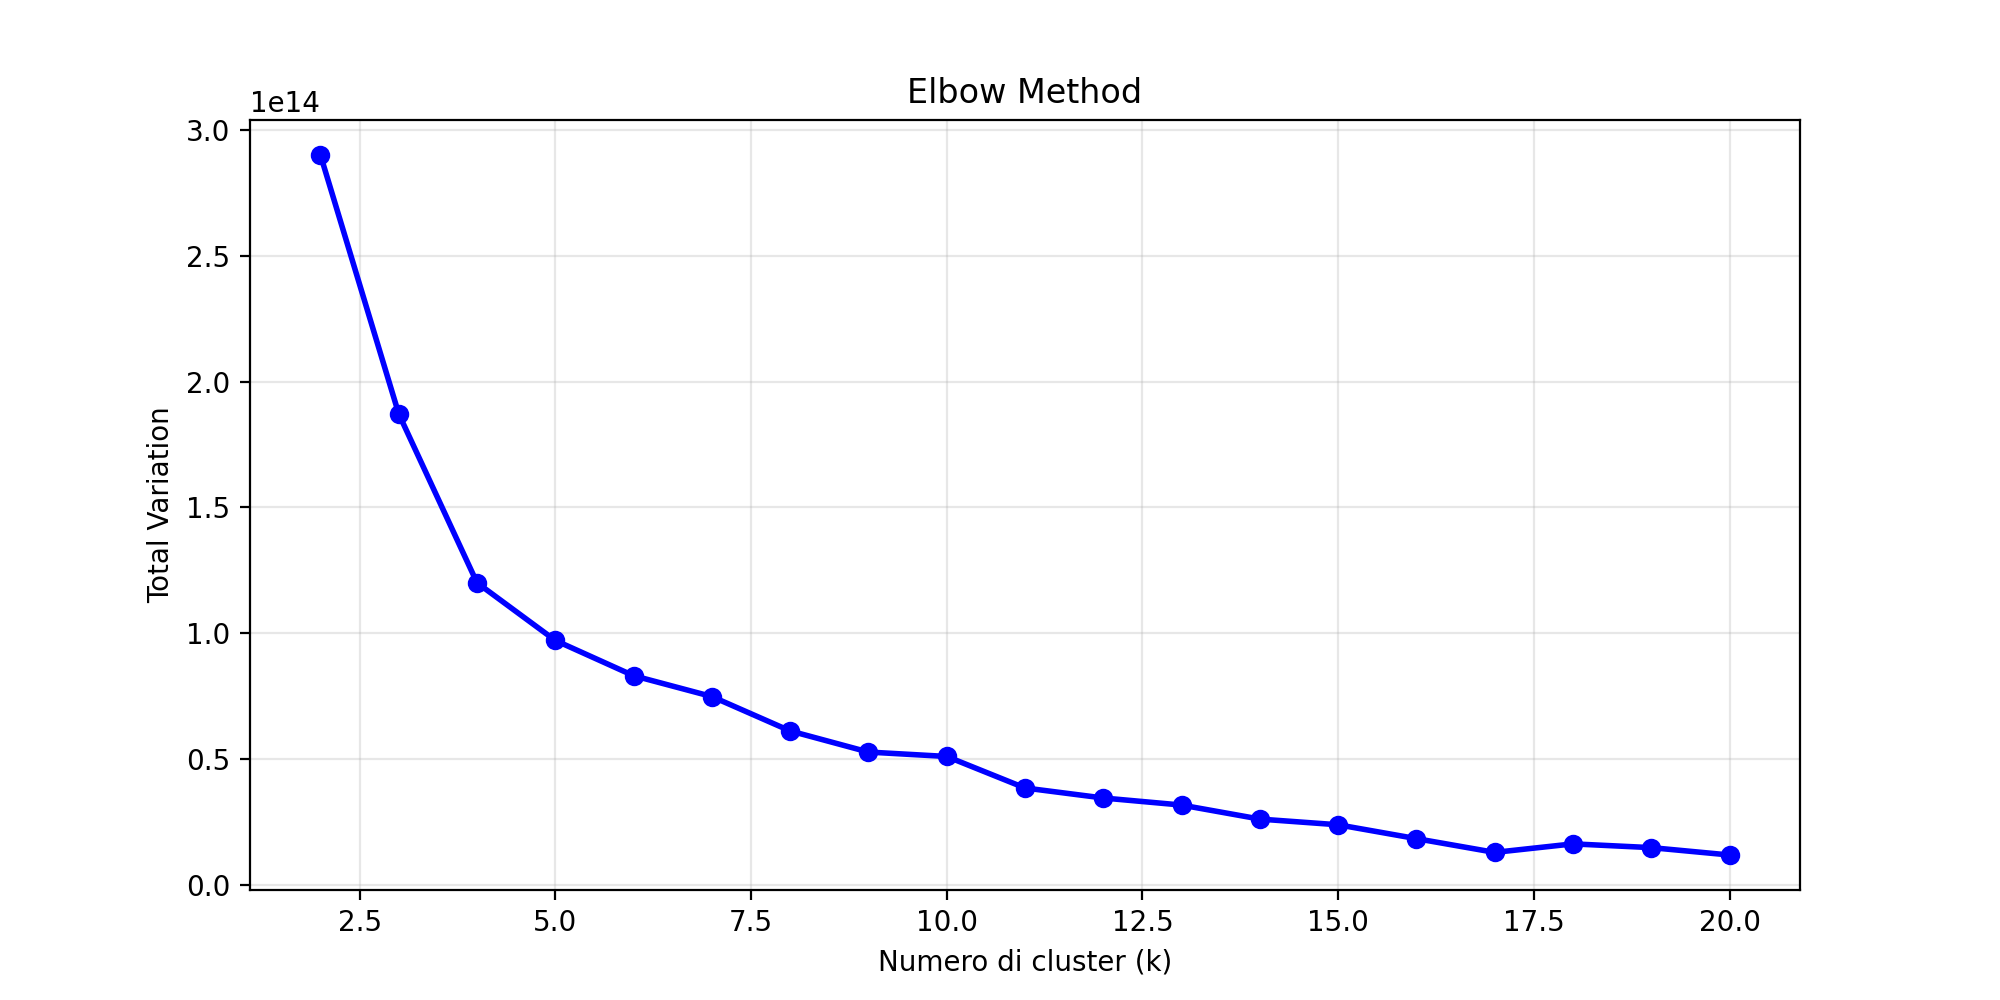
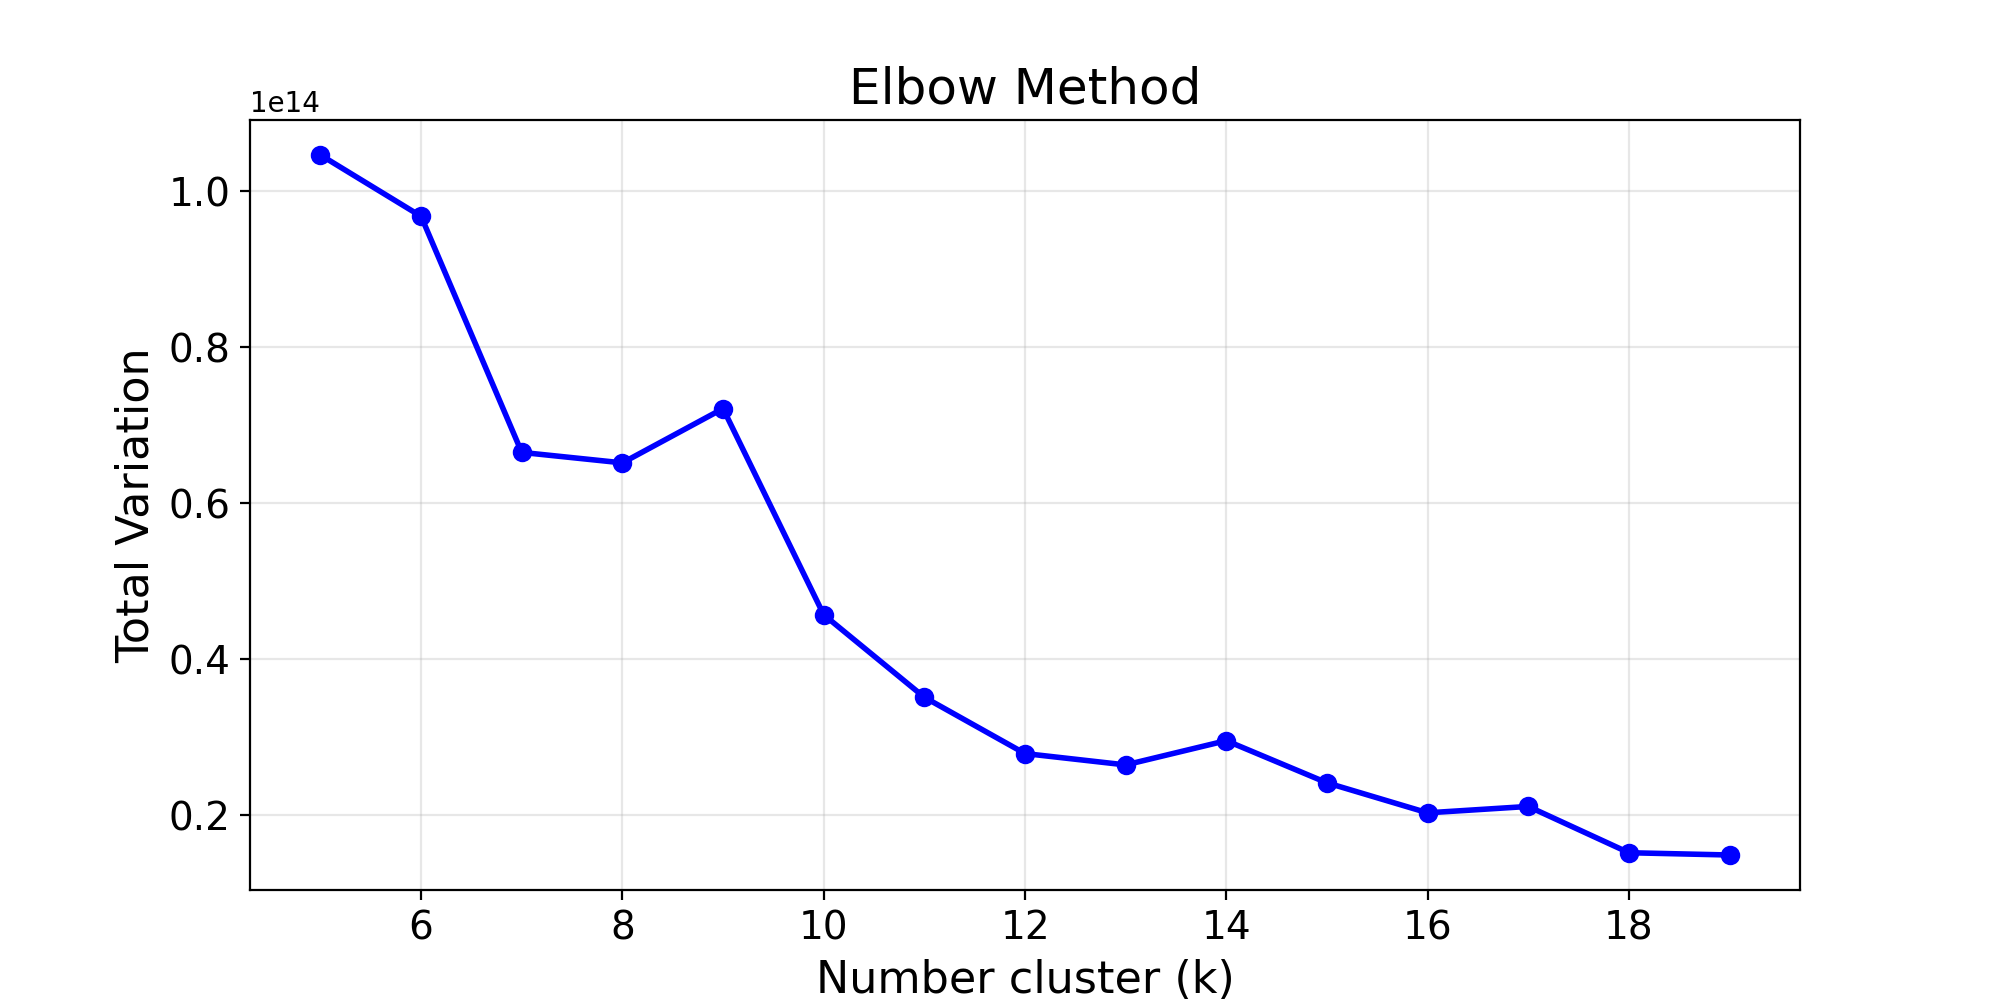
c

diff --git a/exercise4/ex4.py b/exercise4/ex4.py
@@ -1,20 +1,17 @@
 import numpy as np
 import matplotlib.pyplot as plt
 
-# ===================== FUNZIONI PRINCIPALI =====================
+# ===================== Functions =====================
 
 def euclidean_distance(x, m):
-    """Distanza euclidea tra punto x e media m"""
     return np.sqrt(np.sum((x - m) ** 2))
 
 def initialize_means(data, k):
-    """Inizializza k medie random"""
     min_vals = np.min(data, axis=0)
     max_vals = np.max(data, axis=0)
     return np.random.uniform(min_vals, max_vals, (k, data.shape[1]))
 
 def assign_clusters(data, means):
-    """Assegna ogni punto al cluster più vicino"""
     clusters = np.zeros(len(data), dtype=int)
     for i, point in enumerate(data):
         distances = [euclidean_distance(point, mean) for mean in means]
@@ -22,7 +19,6 @@ def assign_clusters(data, means):
     return clusters
 
 def calculate_tv(data, means, clusters, k):
-    """Calcola Total Variation"""
     tv = 0
     for c in range(k):
         cluster_points = data[clusters == c]
@@ -31,7 +27,6 @@ def calculate_tv(data, means, clusters, k):
     return tv
 
 def update_means(data, clusters, k):
-    """Aggiorna le medie"""
     means = np.zeros((k, data.shape[1]))
     for c in range(k):
         cluster_points = data[clusters == c]
@@ -40,7 +35,7 @@ def update_means(data, clusters, k):
     return means
 
 def kmeans(data, k, max_iter=100):
-    """Algoritmo k-means completo"""
+    """Algorythm k-means"""
     means = initialize_means(data, k)
     tv_history = []
     
@@ -49,7 +44,6 @@ def kmeans(data, k, max_iter=100):
         tv = calculate_tv(data, means, clusters, k)
         tv_history.append(tv)
         
-        # Convergenza: TV cambia < 1%
         if iteration > 0:
             change = abs(tv_history[-1] - tv_history[-2]) / tv_history[-2] * 100
             if change < 1.0:
@@ -60,7 +54,6 @@ def kmeans(data, k, max_iter=100):
     return means, clusters, tv_history[0], tv_history[-1]
 
 def silhouette_score(data, clusters, k):
-    """Calcola silhouette score medio"""
     if k == 1:
         return 0
     
@@ -72,11 +65,9 @@ def silhouette_score(data, clusters, k):
         if len(same_cluster) <= 1:
             continue
         
-        # a_i: distanza media intra-cluster
         a_i = np.mean([np.linalg.norm(data[i] - p) for p in same_cluster 
                        if not np.array_equal(p, data[i])])
         
-        # b_i: distanza minima inter-cluster
         b_i = float('inf')
         for c in range(k):
             if c != cluster_i:
@@ -85,7 +76,6 @@ def silhouette_score(data, clusters, k):
                     dist = np.mean([np.linalg.norm(data[i] - p) for p in other_cluster])
                     b_i = min(b_i, dist)
         
-        # s_i
         s_i = (b_i - a_i) / max(a_i, b_i) if b_i != float('inf') else 0
         scores.append(s_i)
     
@@ -93,13 +83,13 @@ def silhouette_score(data, clusters, k):
 
 # ===================== MAIN =====================
 
-print("📂 Caricamento dati...")
+print("upload data...")
 data = np.loadtxt('s2.txt')
-print(f"✓ Caricati {len(data)} punti\n")
+print(f"{len(data)} points uploaded\n")
 
 # 1. ELBOW METHOD
-print("📊 Metodo Elbow...")
-k_range = range(2, 21)
+print("Elbow method...")
+k_range = range(5, 20)
 tv_values = []
 
 for k in k_range:
@@ -109,15 +99,16 @@ for k in k_range:
 
 plt.figure(figsize=(10, 5))
 plt.plot(k_range, tv_values, 'bo-', linewidth=2)
-plt.xlabel('Numero di cluster (k)')
-plt.ylabel('Total Variation')
-plt.title('Elbow Method')
+plt.xlabel('Number cluster (k)', fontsize=16)
+plt.ylabel('Total Variation', fontsize=16)
+plt.title('Elbow Method', fontsize=18)
 plt.grid(True, alpha=0.3)
+plt.tick_params(axis='both', which='major', labelsize=14)
 plt.savefig('elbow_method.png', dpi=200)
-print("✓ Salvato: elbow_method.png\n")
+print("saved: elbow_method.png\n")
 
 # 2. SILHOUETTE METHOD
-print("📊 Metodo Silhouette...")
+print("Silhouette method...")
 silhouette_scores = []
 
 for k in k_range:
@@ -128,40 +119,38 @@ for k in k_range:
 
 plt.figure(figsize=(10, 5))
 plt.plot(k_range, silhouette_scores, 'ro-', linewidth=2)
-plt.xlabel('Numero di cluster (k)')
-plt.ylabel('Silhouette Score')
-plt.title('Silhouette Method')
+plt.xlabel('Number of cluster (k)', fontsize=16)
+plt.ylabel('Silhouette Score', fontsize=16)
+plt.title('Silhouette Method', fontsize=18)
 plt.grid(True, alpha=0.3)
+plt.tick_params(axis='both', which='major', labelsize=14)
 plt.savefig('silhouette_method.png', dpi=200)
-print("✓ Salvato: silhouette_method.png\n")
+print("saved: silhouette_method.png\n")
 
 optimal_k = k_range[np.argmax(silhouette_scores)]
-print(f"🎯 K ottimale (Silhouette): {optimal_k}\n")
+print(f"best k (Silhouette): {optimal_k}\n")
 
-# 3. CLUSTERING FINALE con k=15
-print("🔧 Clustering finale con k=15...")
+# 3. CLUSTERING k=15
+print(" Clustering with k=15...")
 means, clusters, init_tv, final_tv = kmeans(data, 15)
-print(f"  TV iniziale: {init_tv:.0f}")
-print(f"  TV finale: {final_tv:.0f}")
+print(f"  TV initial value: {init_tv:.0f}")
+print(f"  TV final value: {final_tv:.0f}")
 
 # 4. REPORT
 print("\n" + "="*50)
-print("📋 REPORT FINALE")
+print("REPORT")
 print("="*50)
-print(f"Numero cluster: k=15")
-print(f"TV iniziale: {init_tv:.2f}")
-print(f"TV finale: {final_tv:.2f}")
-print(f"Riduzione: {(init_tv-final_tv)/init_tv*100:.1f}%")
+print(f"Number of cluster: k=15")
+print(f"TV initial value: {init_tv:.2f}")
+print(f"TV final value: {final_tv:.2f}")
+print(f"Percentual reduction in TV: {(init_tv-final_tv)/init_tv*100:.1f}%")
 
 cluster_sizes = [np.sum(clusters == c) for c in range(15)]
-print(f"\nCluster più piccolo: {min(cluster_sizes)} punti")
-print(f"Cluster più grande: {max(cluster_sizes)} punti")
-print("\nDimensioni cluster:")
-for i, size in enumerate(cluster_sizes):
-    print(f"  Cluster {i+1:2d}: {size:4d} punti")
+print(f"\nSmaller cluster: {min(cluster_sizes)} points")
+print(f"Bigger cluster: {max(cluster_sizes)} points")
 
-# 5. VISUALIZZAZIONE
-print("\n🎨 Generazione figura finale...")
+
+# 5. GRAPHIC
 plt.figure(figsize=(12, 10))
 colors = plt.cm.rainbow(np.linspace(0, 1, 15))
 
@@ -173,17 +162,13 @@ for c in range(15):
 plt.scatter(means[:, 0], means[:, 1], c='black', marker='X', 
            s=200, edgecolors='white', linewidths=2, label='Centroids')
 
-plt.xlabel('X')
-plt.ylabel('Y')
-plt.title(f'K-means (k=15) - TV init: {init_tv:.0f}, TV final: {final_tv:.0f}')
+plt.xlabel('X', fontsize=16)
+plt.ylabel('Y', fontsize=16)
+plt.title(f'K-means (k=15)', fontsize=18)
 plt.legend(bbox_to_anchor=(1.05, 1), ncol=2)
 plt.grid(True, alpha=0.3)
+plt.tick_params(axis='both', which='major', labelsize=14)
 plt.tight_layout()
 plt.savefig('final_clustering.png', dpi=200)
-print("✓ Salvato: final_clustering.png")
+print("saved: final_clustering.png")
 
-print("\n✅ COMPLETATO!\n")
-print("File generati:")
-print("  • elbow_method.png")
-print("  • silhouette_method.png")
-print("  • final_clustering.png")
